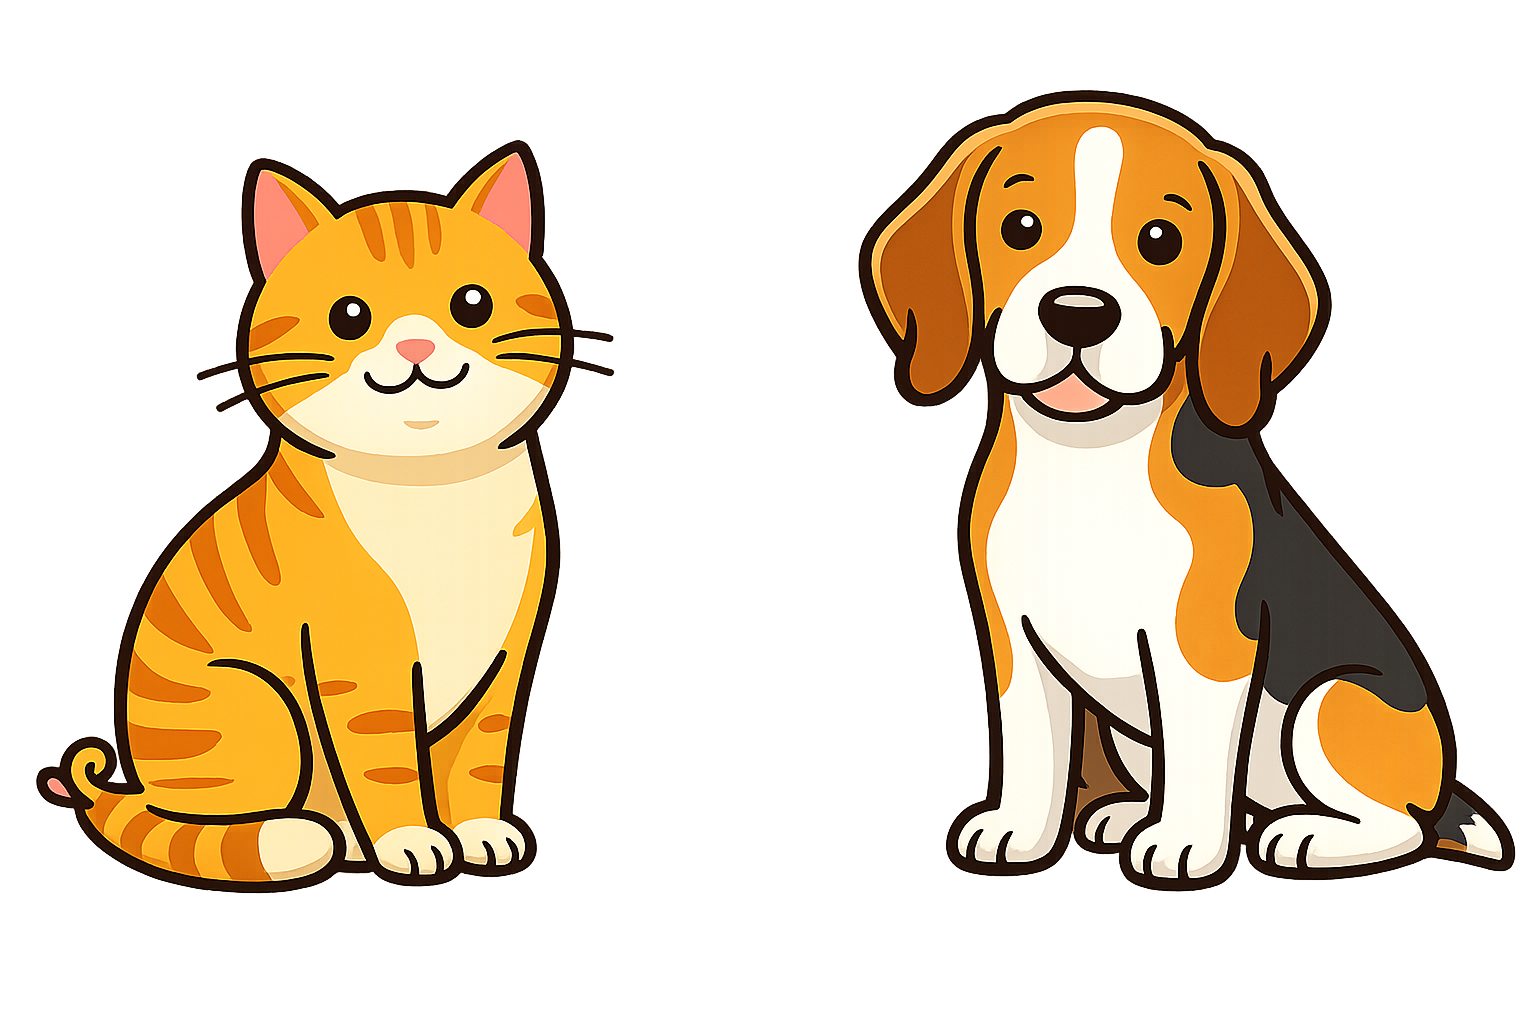
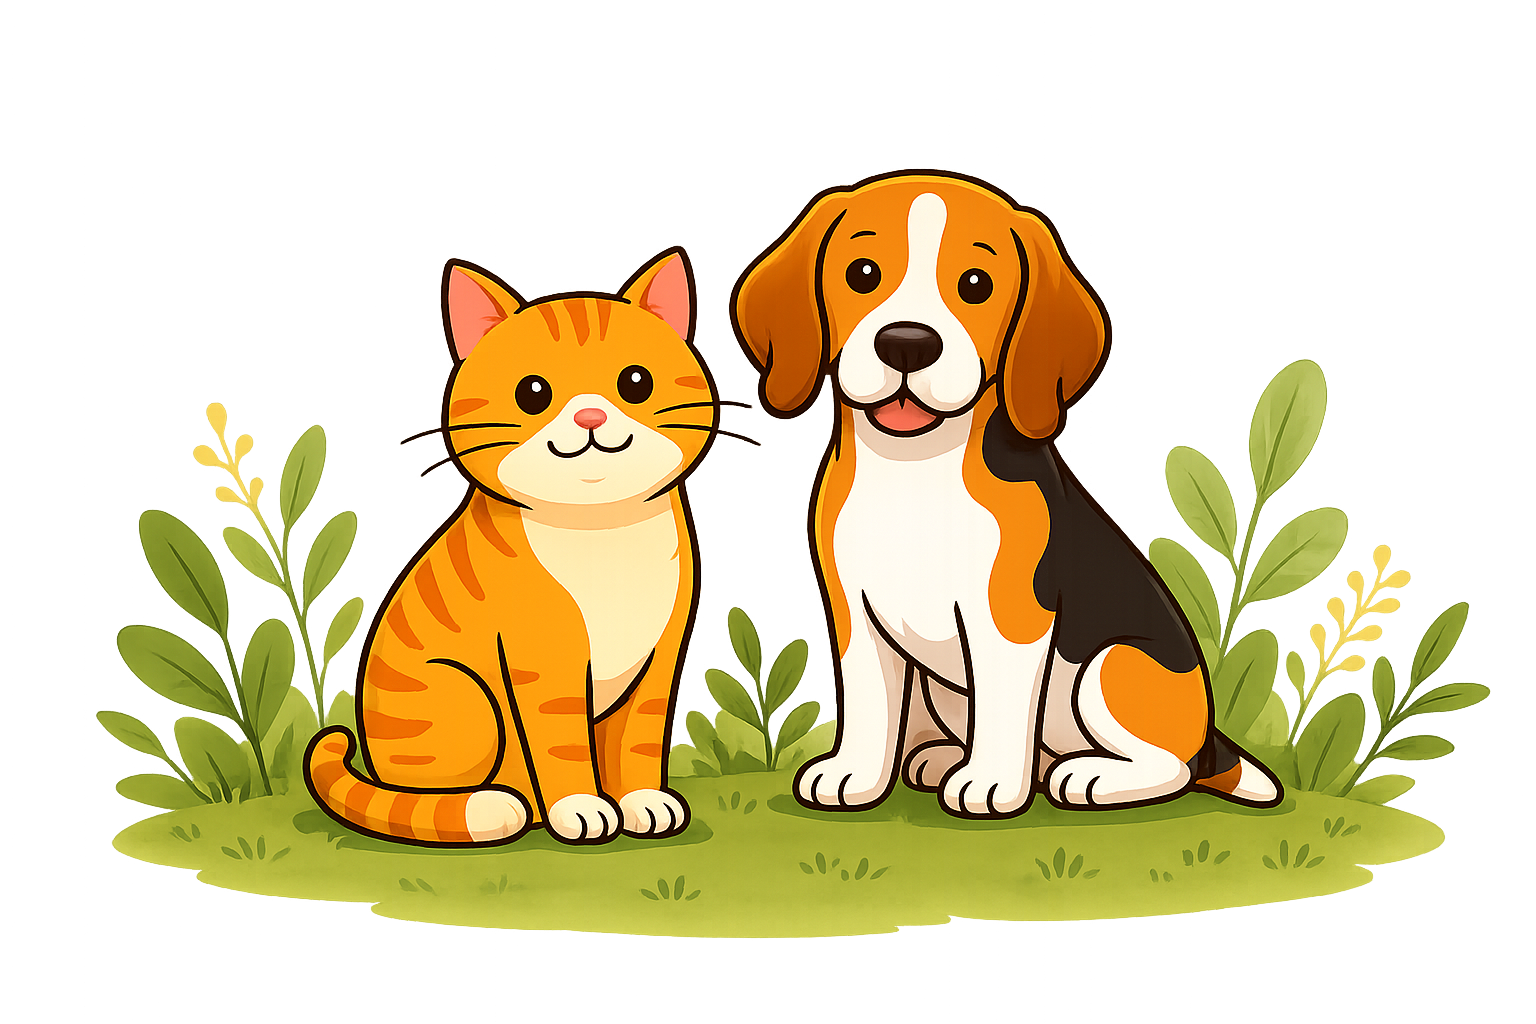
feat: implement login functionality in Challenge component; add form handling and status messages; update styles and add new images

diff --git a/11-react/src/pages/Challenge.jsx b/11-react/src/pages/Challenge.jsx
@@ -1,4 +1,8 @@
+import { useState } from 'react';
+import axios from 'axios';
 import './Challenge.css';
+
+const API_URL = 'http://127.0.0.1:8000/api/login';
 
 function PawIcon() {
   return (
@@ -32,6 +36,37 @@ function LockIcon() {
 }
 
 function Challenge() {
+  const [form, setForm] = useState({ email: '', password: '' });
+  const [status, setStatus] = useState({ type: '', message: '' });
+  const [loading, setLoading] = useState(false);
+
+  const handleChange = (event) => {
+    const { name, value } = event.target;
+    setForm((currentForm) => ({
+      ...currentForm,
+      [name]: value,
+    }));
+  };
+
+  const handleSubmit = async (event) => {
+    event.preventDefault();
+    setLoading(true);
+    setStatus({ type: '', message: '' });
+
+    try {
+      const { data } = await axios.post(API_URL, form);
+
+      localStorage.setItem('larapets_token', data.token);
+      localStorage.setItem('larapets_user', JSON.stringify(data.user));
+      setStatus({ type: 'success', message: 'Inicio de sesión exitoso.' });
+    } catch (error) {
+      const message = error.response?.data?.message || 'No se pudo iniciar sesión. Revisa tus datos.';
+      setStatus({ type: 'error', message });
+    } finally {
+      setLoading(false);
+    }
+  };
+
   return (
     <div className="challenge-page">
       <div className="challenge-card">
@@ -42,27 +77,49 @@ function Challenge() {
 
         <img className="hero-image" src="/images/image1.png" alt="Mascotas" />
 
-        <form className="challenge-form">
+        <form className="challenge-form" onSubmit={handleSubmit}>
           <label className="input-group">
             <span className="input-icon" aria-hidden="true">
               <MailIcon />
             </span>
-            <input type="email" placeholder="correo" />
+            <input
+              type="email"
+              name="email"
+              placeholder="correo"
+              value={form.email}
+              onChange={handleChange}
+              autoComplete="email"
+              required
+            />
           </label>
 
           <label className="input-group">
             <span className="input-icon" aria-hidden="true">
               <LockIcon />
             </span>
-            <input type="password" placeholder="contraseña" />
+            <input
+              type="password"
+              name="password"
+              placeholder="contraseña"
+              value={form.password}
+              onChange={handleChange}
+              autoComplete="current-password"
+              required
+            />
           </label>
 
-          <button className="challenge-button" type="submit">
+          <button className="challenge-button" type="submit" disabled={loading}>
             <span className="button-icon" aria-hidden="true">
               <PawIcon />
             </span>
-            Iniciar sesión
+            {loading ? 'Iniciando...' : 'Iniciar sesión'}
           </button>
+
+          {status.message && (
+            <p className={`login-message ${status.type}`}>
+              {status.message}
+            </p>
+          )}
         </form>
       </div>
     </div>

diff --git a/11-react/src/pages/Challenge.css b/11-react/src/pages/Challenge.css
@@ -76,7 +76,7 @@
   display: flex;
   flex-direction: column;
   align-items: stretch;
-  gap: 34px;
+  gap: 28px;
 }
 
 .input-group {
@@ -157,6 +157,11 @@
   transition: background 0.25s ease;
 }
 
+.challenge-button:disabled {
+  cursor: not-allowed;
+  opacity: 0.75;
+}
+
 .button-icon {
   width: 24px;
   height: 24px;
@@ -174,6 +179,23 @@
 
 .challenge-button:hover {
   background: var(--primary-dark);
+}
+
+.login-message {
+  min-height: 20px;
+  margin: -10px 0 0;
+  color: var(--text-secondary);
+  font-size: 13px;
+  font-weight: 600;
+  text-align: center;
+}
+
+.login-message.success {
+  color: var(--olive);
+}
+
+.login-message.error {
+  color: var(--primary-dark);
 }
 
 @media (max-width: 554px) {